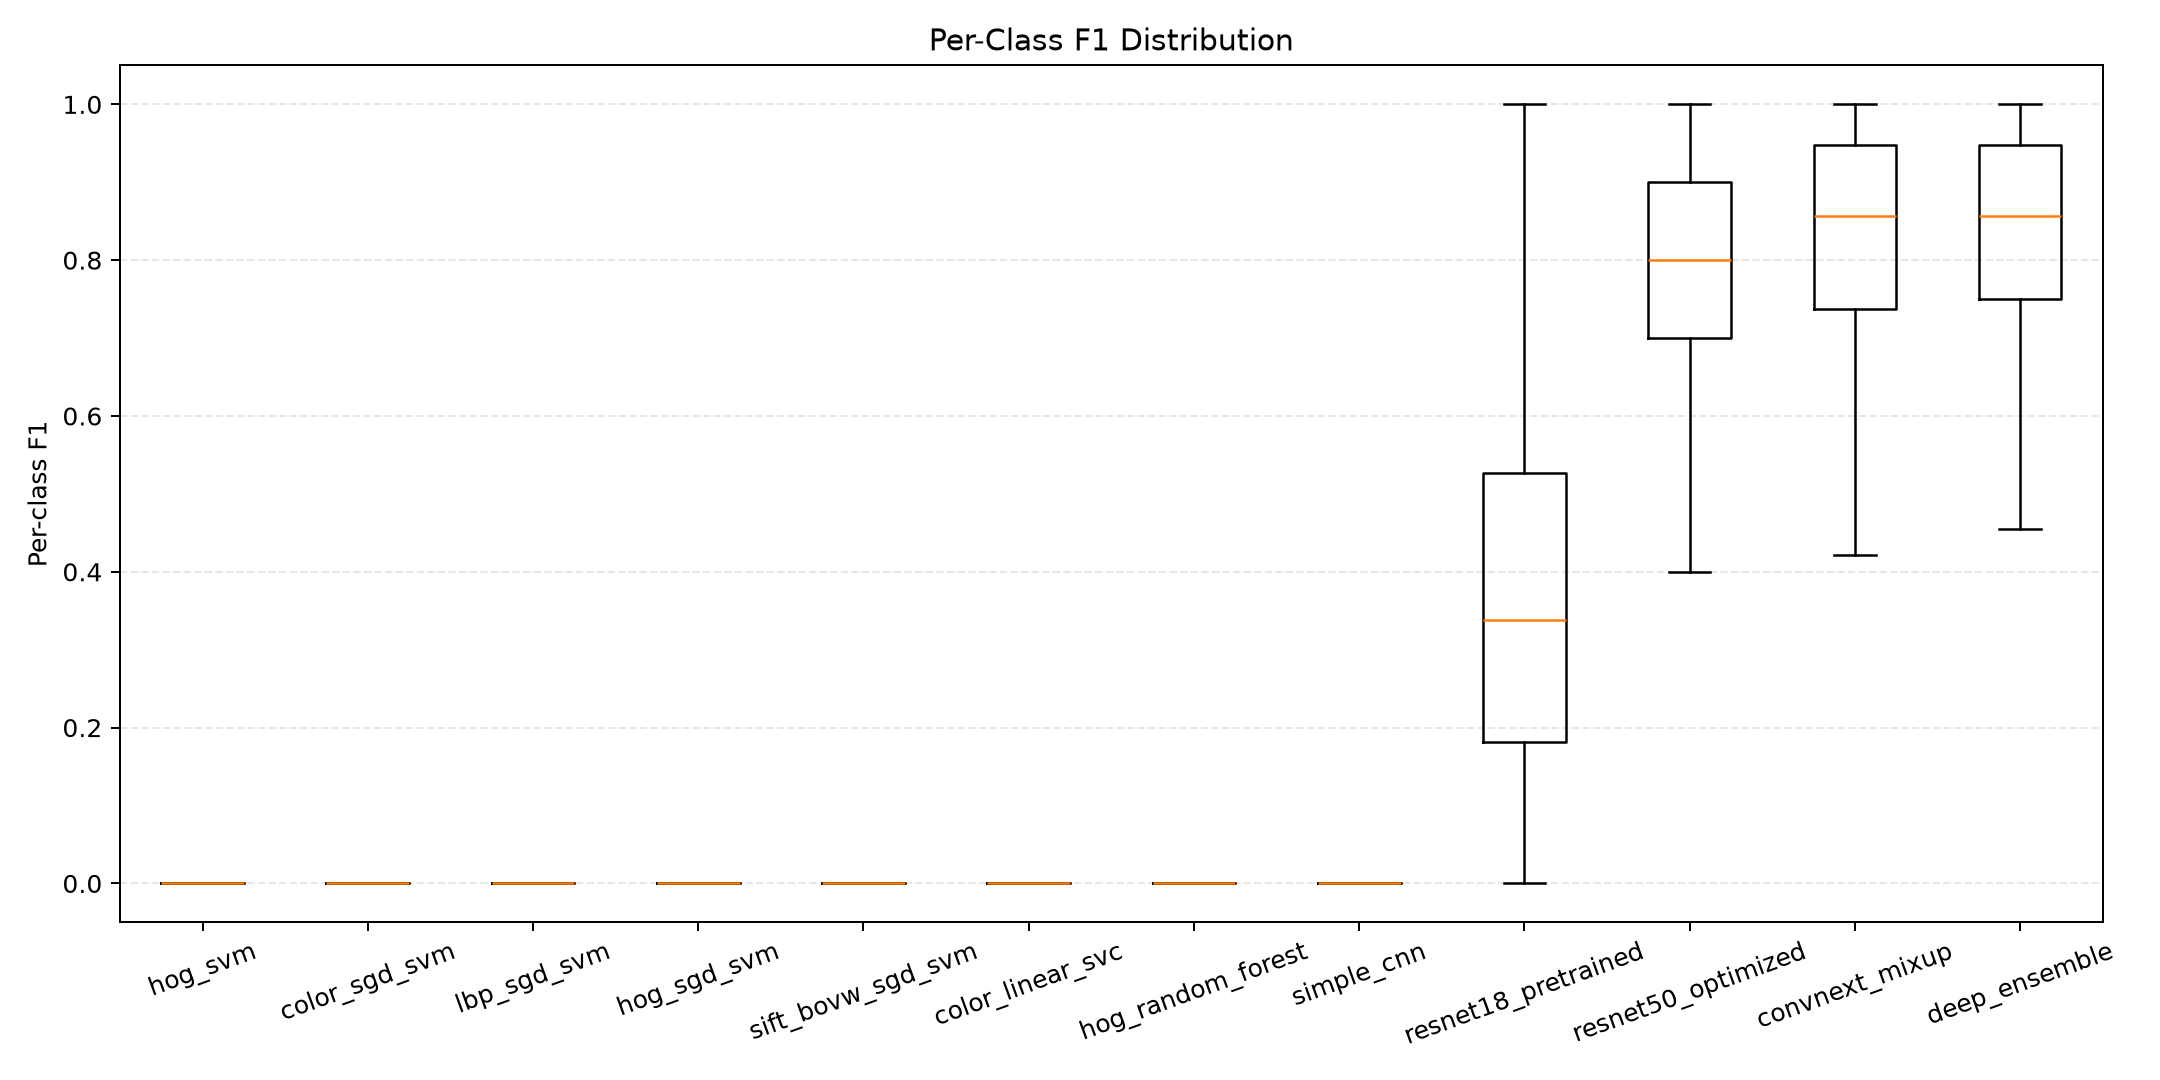
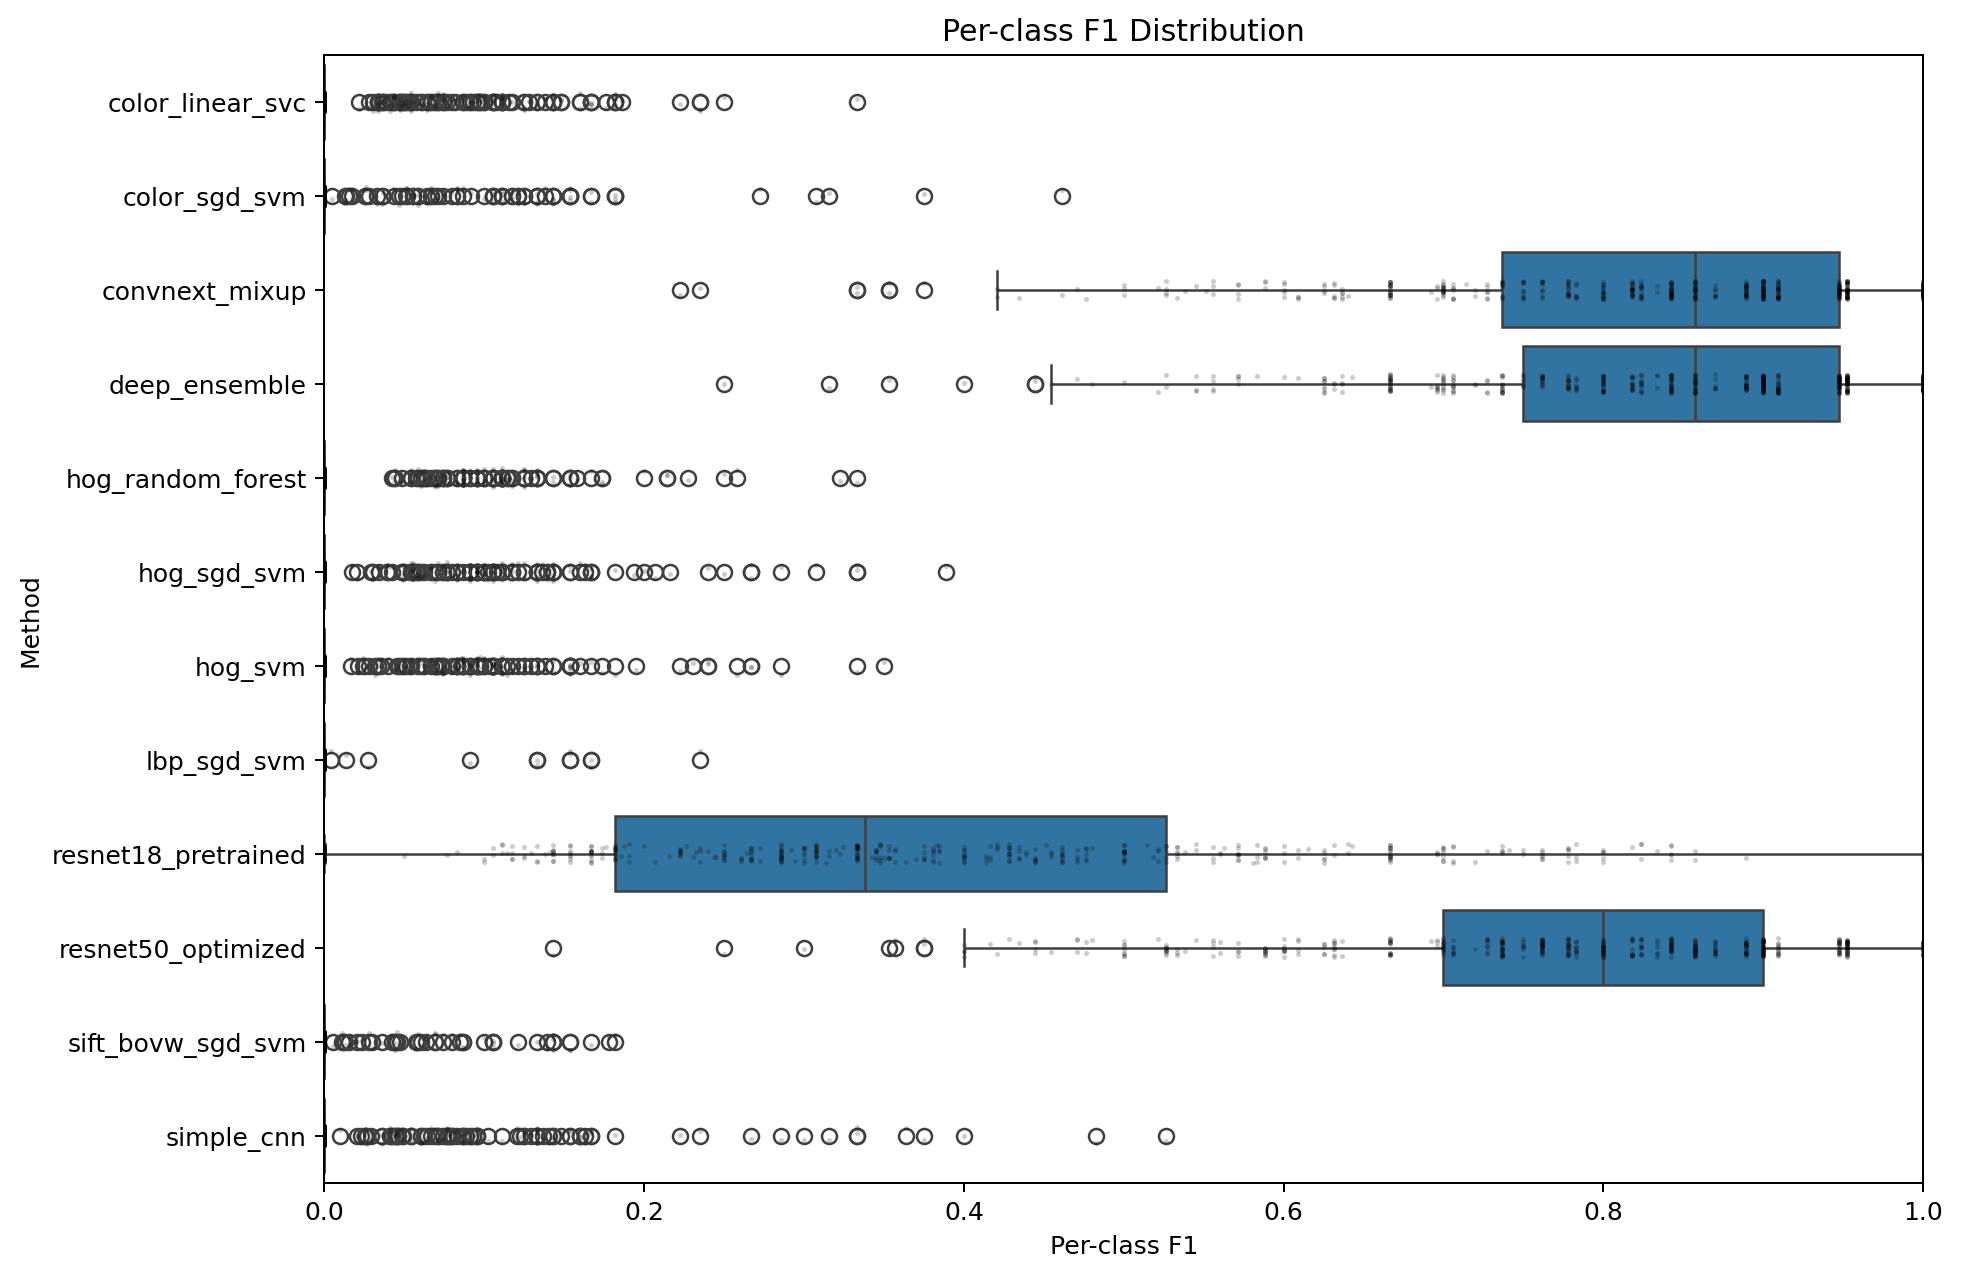
Publish report-ready evaluation figures

diff --git a/outputs/final_results/inat500/README.md b/outputs/final_results/inat500/README.md
@@ -42,6 +42,17 @@ comparison/traditional_summary_metrics.csv
 comparison/traditional_methods_comparison.png
 ```
 
+评价模块重新计算得到的三组受控对比位于：
+
+```text
+ablations/handcrafted_features/
+ablations/hog_classifiers/
+ablations/color_classifiers/
+```
+
+每组包含绝对指标图、相对 baseline 的变化图、汇总 CSV 和验证报告。
+`evaluation_manifest.json` 记录哪些方法使用逐图片 Top-5 重新计算，哪些方法只能使用已有汇总指标。
+
 ## 3. 文件夹结构
 
 ```text
@@ -49,6 +60,7 @@ final_results/inat500/
 |-- README.md
 |-- TRADITIONAL_EXPERIMENTS.md
 |-- artifact_manifest.csv
+|-- evaluation_manifest.json
 |-- comparison/
 |   |-- summary_metrics.csv
 |   |-- traditional_summary_metrics.csv
@@ -70,8 +82,12 @@ final_results/inat500/
 |   |-- resnet50_optimized/
 |   |-- convnext_mixup/
 |   `-- deep_ensemble/
-`-- reproducibility/
-    `-- data_splits/
+|-- reproducibility/
+|   `-- data_splits/
+`-- ablations/
+    |-- handcrafted_features/
+    |-- hog_classifiers/
+    `-- color_classifiers/
 ```
 
 ## 4. 每个方法目录中的文件
